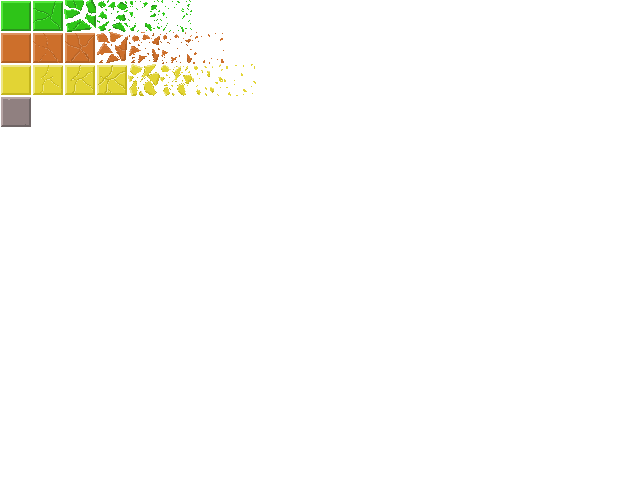
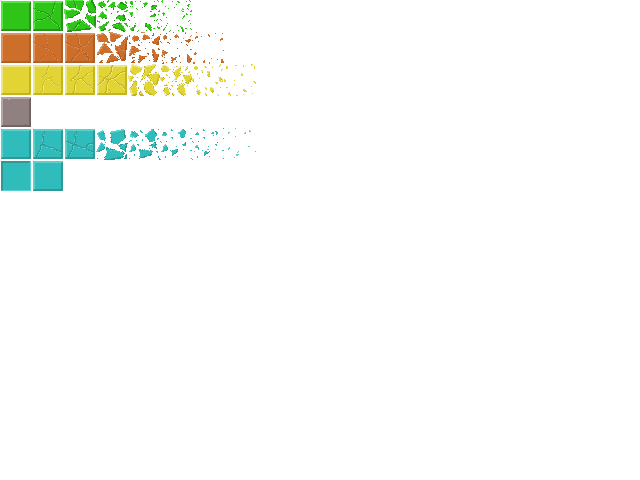
add unknown tile

Changed region(s): [[0.0, 0.25, 0.3125, 0.4062]]

diff --git a/NoNameGame.Gameplay/Factories/TileFactory.cs b/NoNameGame.Gameplay/Factories/TileFactory.cs
@@ -37,6 +37,9 @@ namespace NoNameGame.Gameplay.Factories
                 case TileType.Triple:
                     tile = CreateTripleTile(tileSpriteSheet);
                     break;
+                case TileType.Unknown:
+                    tile = CreateUnknownTile(tileSpriteSheet);
+                    break;
                 default:
                     tile = CreateIndestructibleTile(tileSpriteSheet);
                     break;
@@ -130,20 +133,59 @@ namespace NoNameGame.Gameplay.Factories
             tile.Sprite = tile.AddComponent(sprite);
 
             var animation = new Animation(sheet, new Rectangle[]
-                    {
-                        new Rectangle(96, 64, 32, 32),
-                        new Rectangle(128, 64, 32, 32),
-                        new Rectangle(160, 64, 32, 32),
-                        new Rectangle(192, 64, 32, 32),
-                        new Rectangle(224, 64, 32, 32),
-                        new Rectangle(256, 64, 32, 32),
-                    })
+                {
+                    new Rectangle(96, 64, 32, 32),
+                    new Rectangle(128, 64, 32, 32),
+                    new Rectangle(160, 64, 32, 32),
+                    new Rectangle(192, 64, 32, 32),
+                    new Rectangle(224, 64, 32, 32),
+                    new Rectangle(256, 64, 32, 32),
+                })
             {
                 Name = AnimationDictionary.TileDestroy,
                 Speed = 0.5f
             };
 
             tile.Animator = tile.AddComponent(new Animator { Animations = new[] { animation } });
+
+            return tile;
+        }
+
+        private Tile CreateUnknownTile(Texture2D sheet)
+        {
+            var tile = new Tile();
+            var sprite = new Sprite { Texture2D = sheet, Rectangle = new Rectangle(0, 128, 32, 32) };
+            tile.Sprite = tile.AddComponent(sprite);
+
+            var destroyAnimation = new Animation(sheet, new[]
+                {
+                    new Rectangle(32, 128, 32, 32),
+                    new Rectangle(64, 128, 32, 32),
+                    new Rectangle(96, 128, 32, 32),
+                    new Rectangle(128, 128, 32, 32),
+                    new Rectangle(160, 128, 32, 32),
+                    new Rectangle(192, 128, 32, 32),
+                    new Rectangle(224, 128, 32, 32),
+                })
+            {
+                Name = AnimationDictionary.TileDestroy,
+                Speed = 0.5f
+            };
+
+            var touchAnimation = new Animation(sheet, new[]
+                {
+                   new Rectangle(0, 160, 32, 32),
+                   new Rectangle(0, 160, 32, 32),
+                   new Rectangle(0, 160, 32, 32),
+                   new Rectangle(0, 160, 32, 32),
+                   new Rectangle(32, 160, 32, 32),
+                })
+            {
+                Name = AnimationDictionary.TileTouch,
+                Speed = 0.3f
+            };
+
+            tile.Animator = tile.AddComponent(new Animator { Animations = new[] { destroyAnimation, touchAnimation } });
 
             return tile;
         }

diff --git a/NoNameGame.Gameplay/Systems/TileEventsSystem.cs b/NoNameGame.Gameplay/Systems/TileEventsSystem.cs
@@ -1,7 +1,6 @@
 using NoNameGame.ECS.Components;
 using NoNameGame.ECS.Messaging;
 using NoNameGame.ECS.Systems;
-using NoNameGame.Gameplay.Components;
 using NoNameGame.Gameplay.Data;
 using NoNameGame.Gameplay.Entities;
 using NoNameGame.Gameplay.Events;
@@ -18,7 +17,7 @@ namespace NoNameGame.Gameplay.Systems
     {
         private Poof _poof;
         private Player _player;
-        private List<Tile> _tiles = new List<Tile>();
+        private readonly List<Tile> _tiles = new List<Tile>();
         private End _end;
 
         public TileEventsSystem()
@@ -38,17 +37,16 @@ namespace NoNameGame.Gameplay.Systems
 
         public void Handle(PlayerAbandonedTile gameEvent)
         {
-            var tile = _tiles
-                .Where(x => x.TileInfo.Position == _player.PositionOnBoard.Previous)
-                .Single();
+            var tile = _tiles.Single(x => x.TileInfo.Position == _player.PositionOnBoard.Previous);
 
             if (tile.TileInfo.IsClearable)
             {
                 tile.TileInfo.Value--;
 
-                tile.State.CurrentState = tile.TileInfo.Value <= 0
-                    ? TileStates.Destroyed
-                    : TileStates.Touched;
+                if (tile.TileInfo.Value <= 0)
+                {
+                    tile.State.CurrentState = TileStates.Destroyed;
+                }
 
                 var tiles = _tiles.Where(x => x.TileInfo.IsClearable);
 
@@ -63,6 +61,9 @@ namespace NoNameGame.Gameplay.Systems
         {
             _poof.Transform.Position = gameEvent.Tile.Transform.Position;
             _poof.GetComponent<Animator>().Play("poof");
+
+            var tile = _tiles.Single(x => x.TileInfo.Position == _player.PositionOnBoard.Current);
+            tile.State.CurrentState = TileStates.Touched;
 
             if (_player.PositionOnBoard.Current == _end.PositionOnBoard.Current)
             {

diff --git a/NoNameGame.Gameplay/StateManagement/TileTouchedHandler.cs b/NoNameGame.Gameplay/StateManagement/TileTouchedHandler.cs
@@ -18,20 +18,40 @@ namespace NoNameGame.Gameplay.StateManagement
             var tile = entity as Tile;
             if (tile.State.InTransition)
             {
-                if (tile.TileInfo.TileType == TileType.Double)
+                switch (tile.TileInfo.TileType)
                 {
-                    tile.Sprite.Rectangle = new Rectangle(32, 32, 32, 32);
-                    return;
+                    case TileType.Double:
+                        UpdateDouble(tile);
+                        break;
+
+                    case TileType.Triple:
+                        UpdateTriple(tile);
+                        break;
+
+                    case TileType.Unknown:
+                        UpdateUnknown(tile);
+                        break;
                 }
 
-                if (tile.TileInfo.TileType == TileType.Triple)
-                {
-                    tile.Sprite.Rectangle = tile.TileInfo.Value == 2
+                tile.State.InTransition = false;
+            }
+        }
+
+        private void UpdateDouble(Tile tile)
+        {
+            tile.Sprite.Rectangle = new Rectangle(32, 32, 32, 32);
+        }
+
+        private void UpdateTriple(Tile tile)
+        {
+            tile.Sprite.Rectangle = tile.TileInfo.Value == 3
                         ? new Rectangle(32, 64, 32, 32)
                         : new Rectangle(64, 64, 32, 32);
-                    return;
-                }
-            }
+        }
+
+        private void UpdateUnknown(Tile tile)
+        {
+            tile.Animator.Play(AnimationDictionary.TileTouch);
         }
     }
 }

diff --git a/NoNameGame.Gameplay/Data/AnimationDictionary.cs b/NoNameGame.Gameplay/Data/AnimationDictionary.cs
@@ -5,6 +5,7 @@
         public static readonly string PlayerMove = "animation_player_move";
         public static readonly string PlayerFall = "animation_player_fall";
         public static readonly string TileDestroy = "animation_tile_destroy";
+        public static readonly string TileTouch = "animation_tile_touch";
         public static readonly string EndOpen = "animation_end_open";
     }
 }

diff --git a/NoNameGame.Gameplay/Components/TileInfo.cs b/NoNameGame.Gameplay/Components/TileInfo.cs
@@ -27,6 +27,7 @@ namespace NoNameGame.Gameplay.Components
             TileType.Single,
             TileType.Double,
             TileType.Triple,
+            TileType.Unknown
         };
     }
 }

diff --git a/NoNameGame.Gameplay/Data/TileType.cs b/NoNameGame.Gameplay/Data/TileType.cs
@@ -5,6 +5,7 @@
         Single,
         Double,
         Triple,
+        Unknown,
         Indestructible
     }
 }
